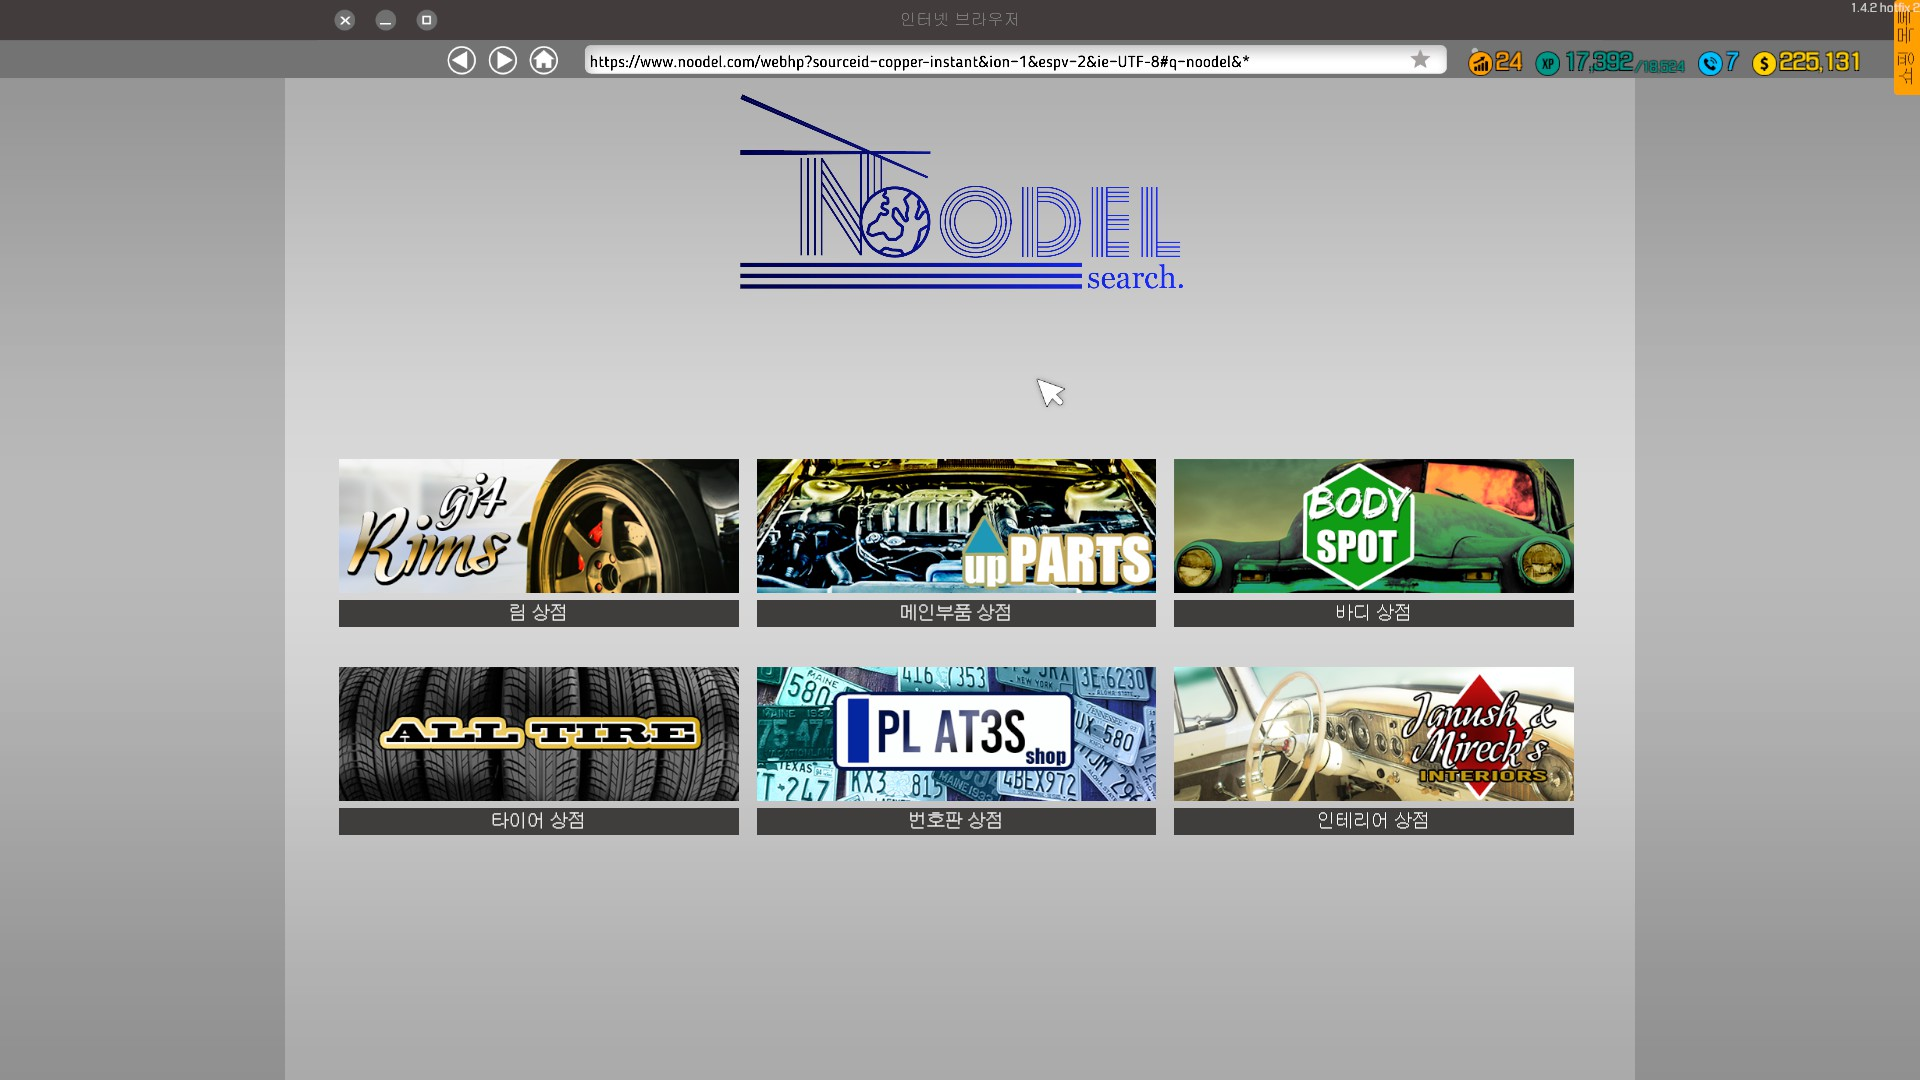
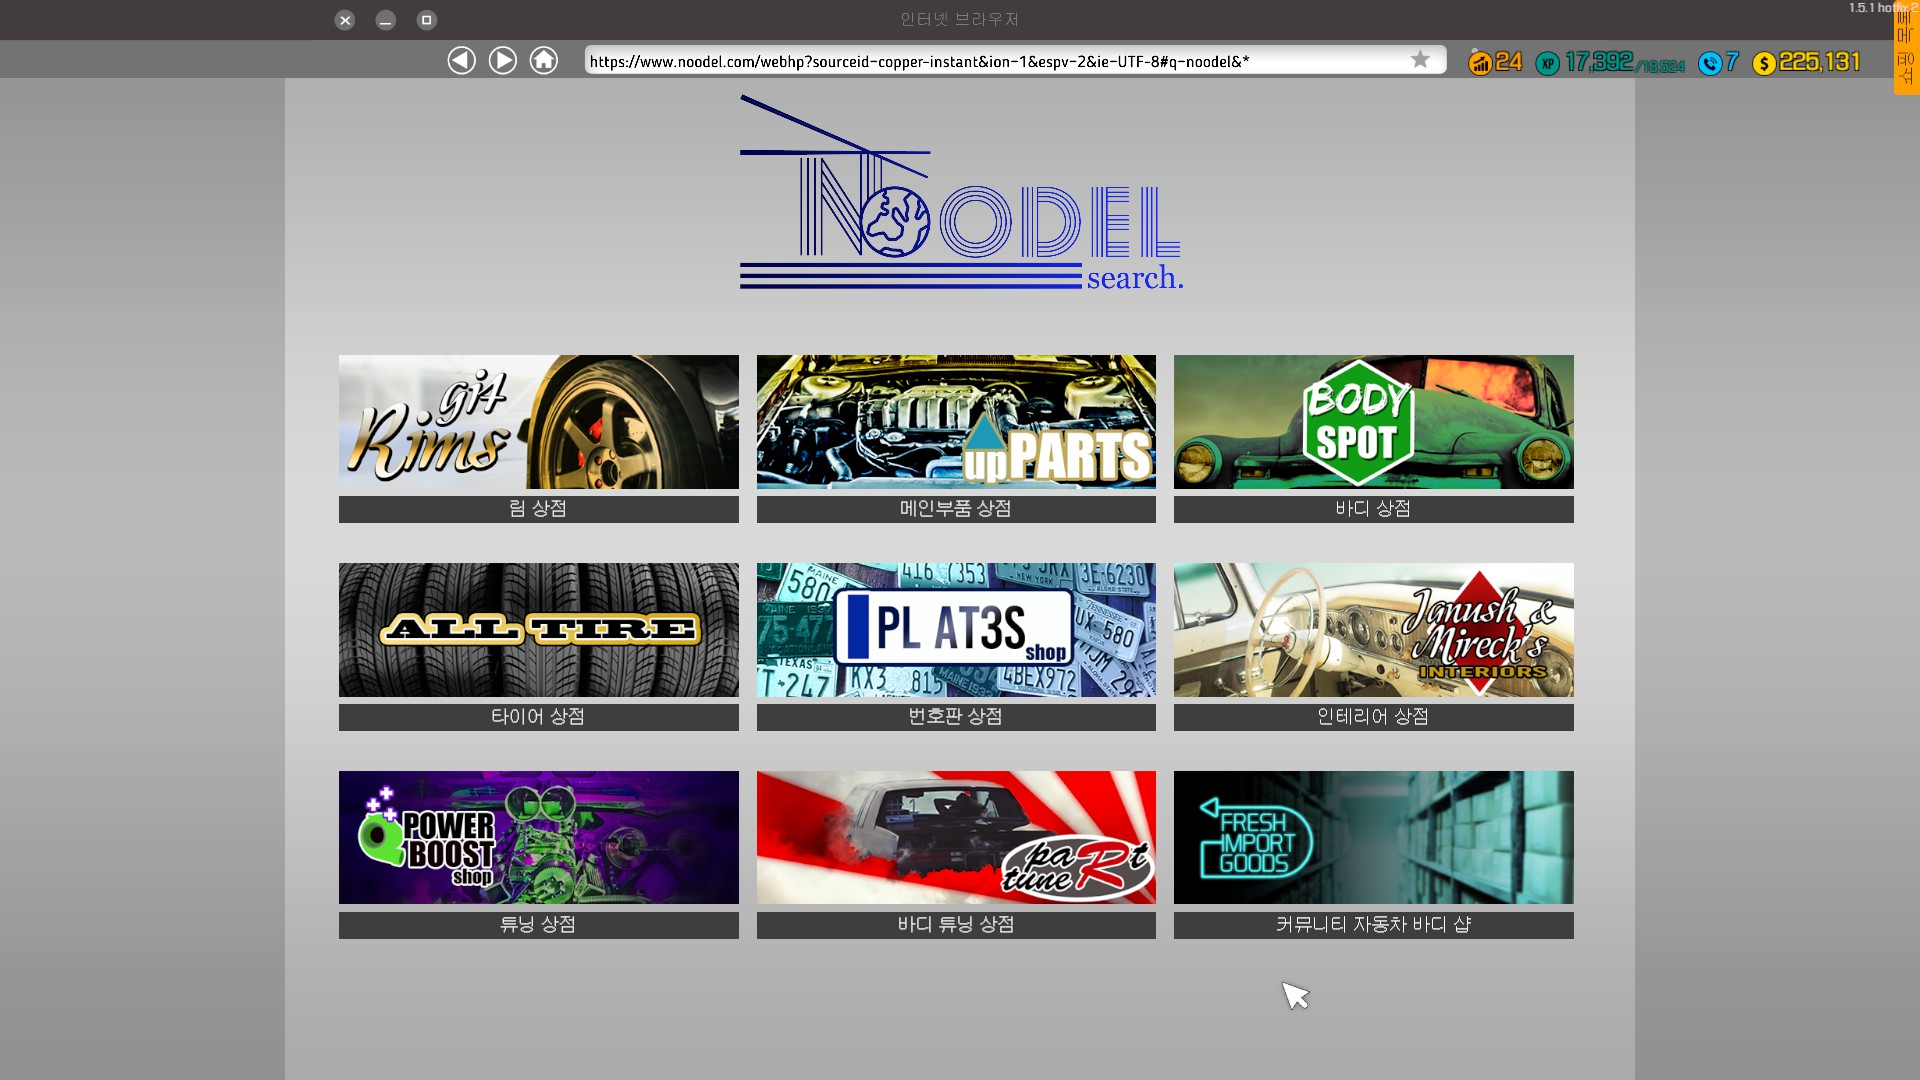
Update - Version 1.5.1

diff --git a/README.md b/README.md
@@ -32,6 +32,8 @@
 ![InteriorShop](https://github.com/semidex3/cms2018/blob/master/Images/InteriorShop.jpg)
 ![LicensePlateShop](https://github.com/semidex3/cms2018/blob/master/Images/LicensePlateShop.jpg)
 ![MainShop](https://github.com/semidex3/cms2018/blob/master/Images/MainShop.jpg)
+![TuningShop](https://github.com/semidex3/cms2018/blob/master/Images/TuningShop.jpg)
+![BodyTuningShop](https://github.com/semidex3/cms2018/blob/master/Images/BodyTuningShop.jpg)
 ![Menu_1](https://github.com/semidex3/cms2018/blob/master/Images/Menu_1.jpg)
 ![Menu_2](https://github.com/semidex3/cms2018/blob/master/Images/Menu_2.jpg)
 ![Menu_3](https://github.com/semidex3/cms2018/blob/master/Images/Menu_3.jpg)
